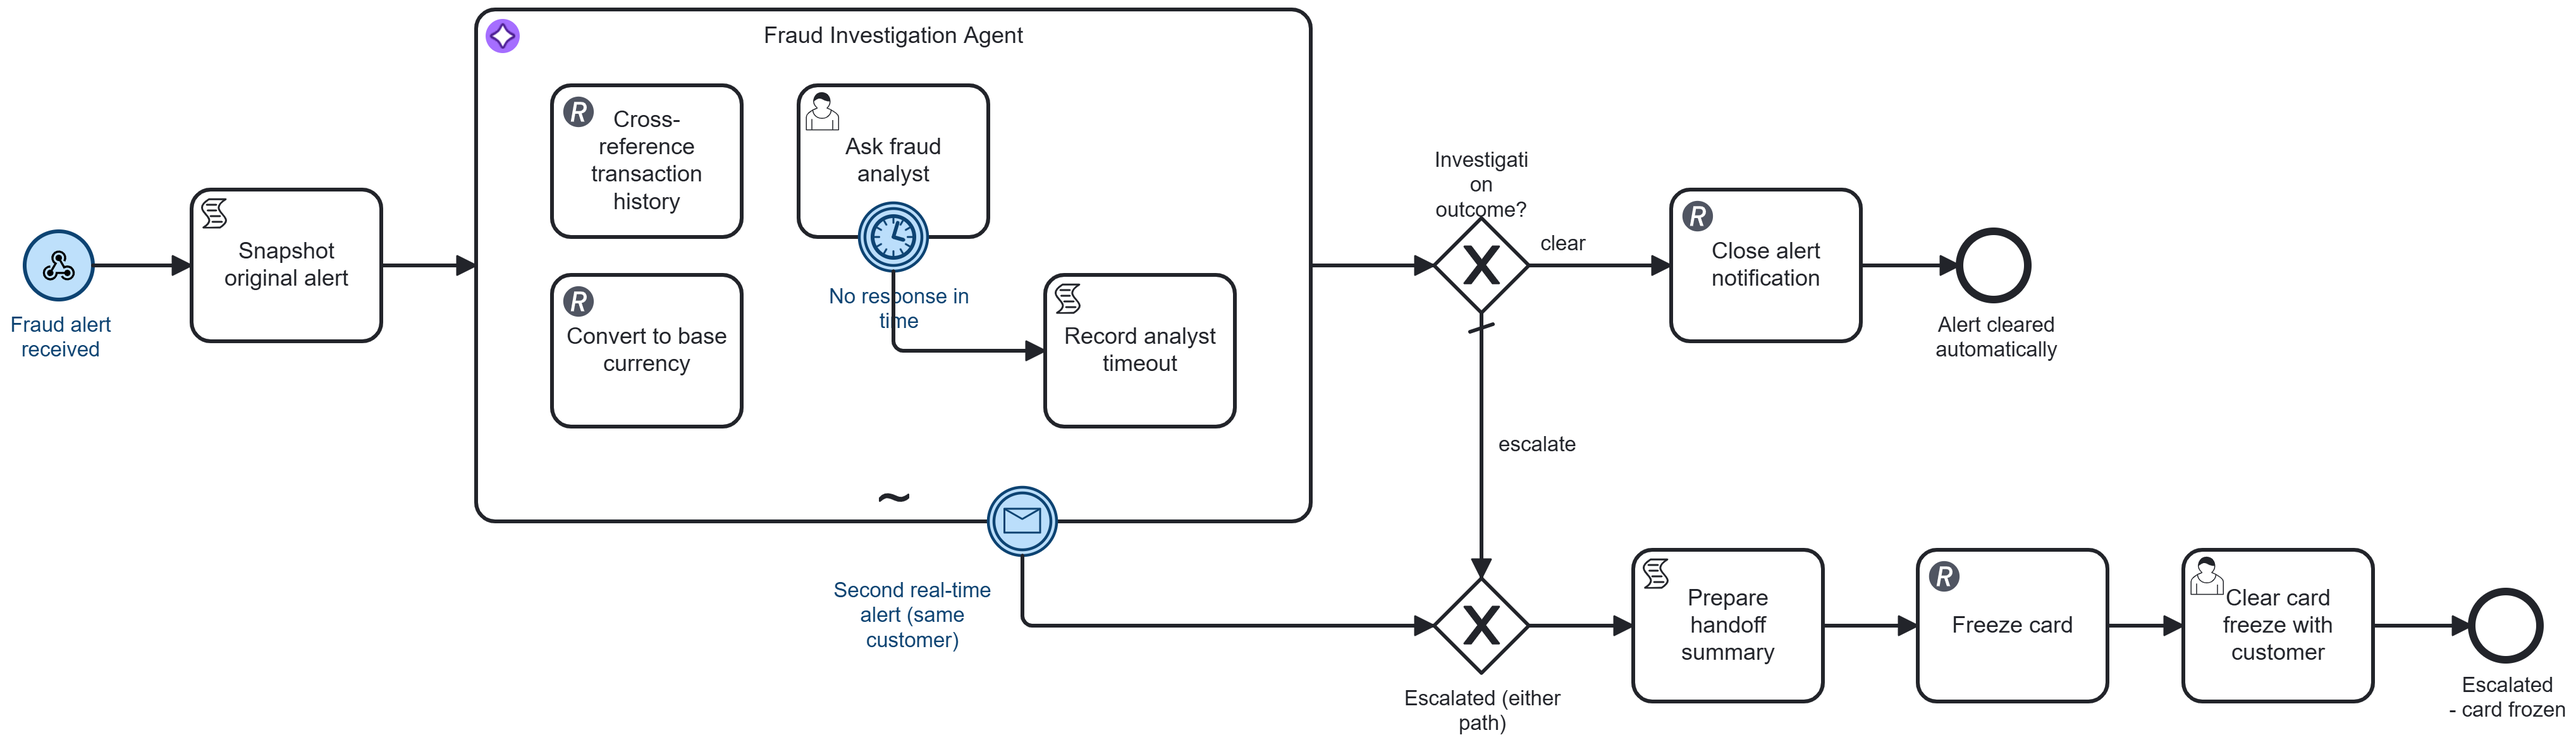
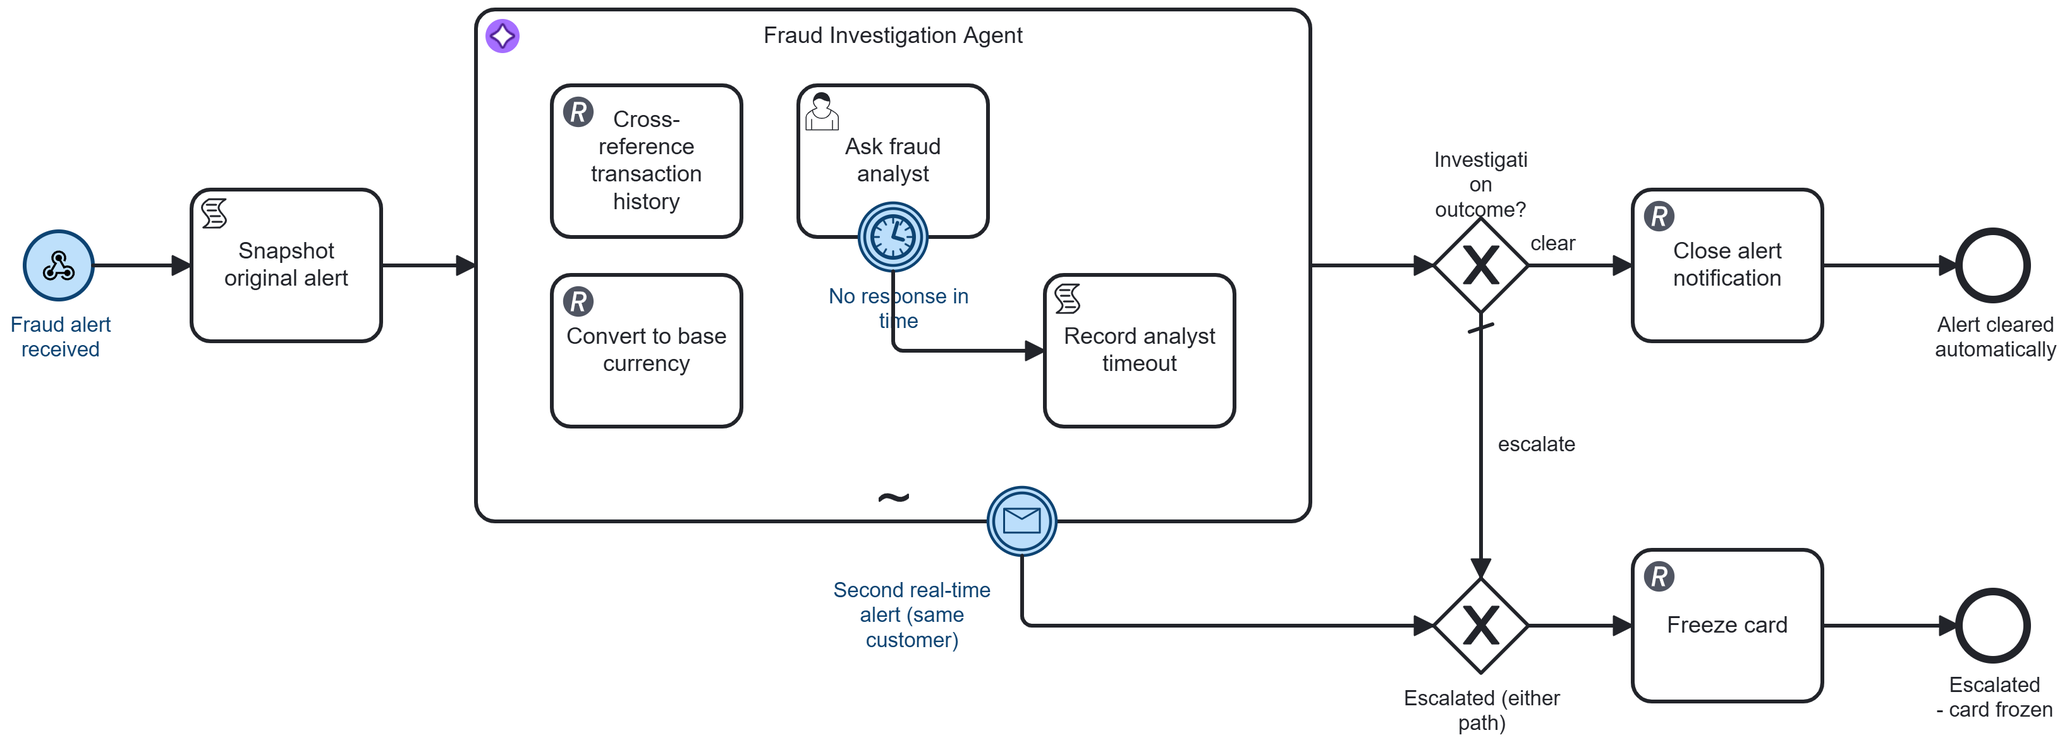
(fix): Fixed example link and simplified event-driven-agent

diff --git a/examples/event-driven-agent/README.md b/examples/event-driven-agent/README.md
@@ -117,7 +117,7 @@ There is no "record the decision" tool call. The AI Agent connector's own respon
 
 The event-driven part is the **Second real-time alert** boundary event on the whole agent subprocess: a bare interrupting message boundary event, no connector, no separate URL, subscribed to the exact same message (name + `customerId` correlation key) as the start event. This is what the marketing page means by "BPMN message... events are first-class constructs": there's no polling loop checking "has anything new come in for this customer?", no flag the agent has to check between tool calls or during a human wait. Zeebe simply cancels the ad-hoc subprocess - and anything running inside it, including a pending `AskFraudAnalyst` task - the moment a second alert for that customer correlates, wherever the case happened to be. The agent's system prompt even says so explicitly: *"there is nothing special for you to do about it"* - the guarantee is structural, not something the model has to cooperate with.
 
-Both ways a case can reach the fraud team - the agent escalating on its own (possibly after consulting the analyst), or the interrupt firing - flow through a plain merging gateway (`Escalated (either path)`) into `Prepare handoff summary`, which builds one consistent explanation using whichever variables are actually set, before `Freeze card` and the human handoff.
+Both ways a case can reach the fraud team - the agent escalating on its own (possibly after consulting the analyst), or the interrupt firing - flow through a plain merging gateway (`Escalated (either path)`) directly into `Freeze card`, which computes one consistent handoff explanation from whichever variables are actually set (there's no separate "prepare summary" step - it's just an input/output mapping on the same task) before the human handoff.
 
 ## Demo scenarios
 

diff --git a/README.md b/README.md
@@ -8,7 +8,7 @@ Producing content that people should be able to try, not just read (a blog post,
 
 Examples:
 
-* [Task Agent — Seed Export Compliance](examples/task-agent)
+* See [examples](examples/)
 
 Quick Starts:
 
